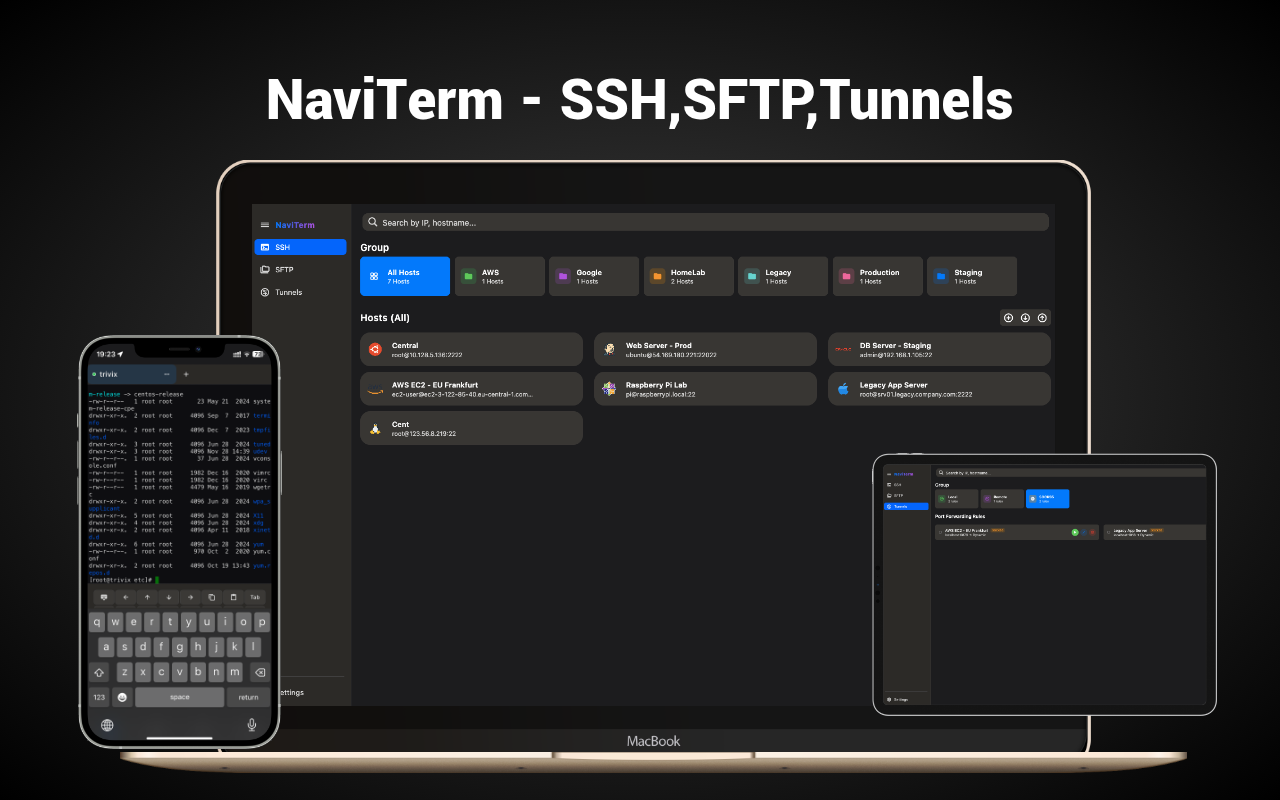
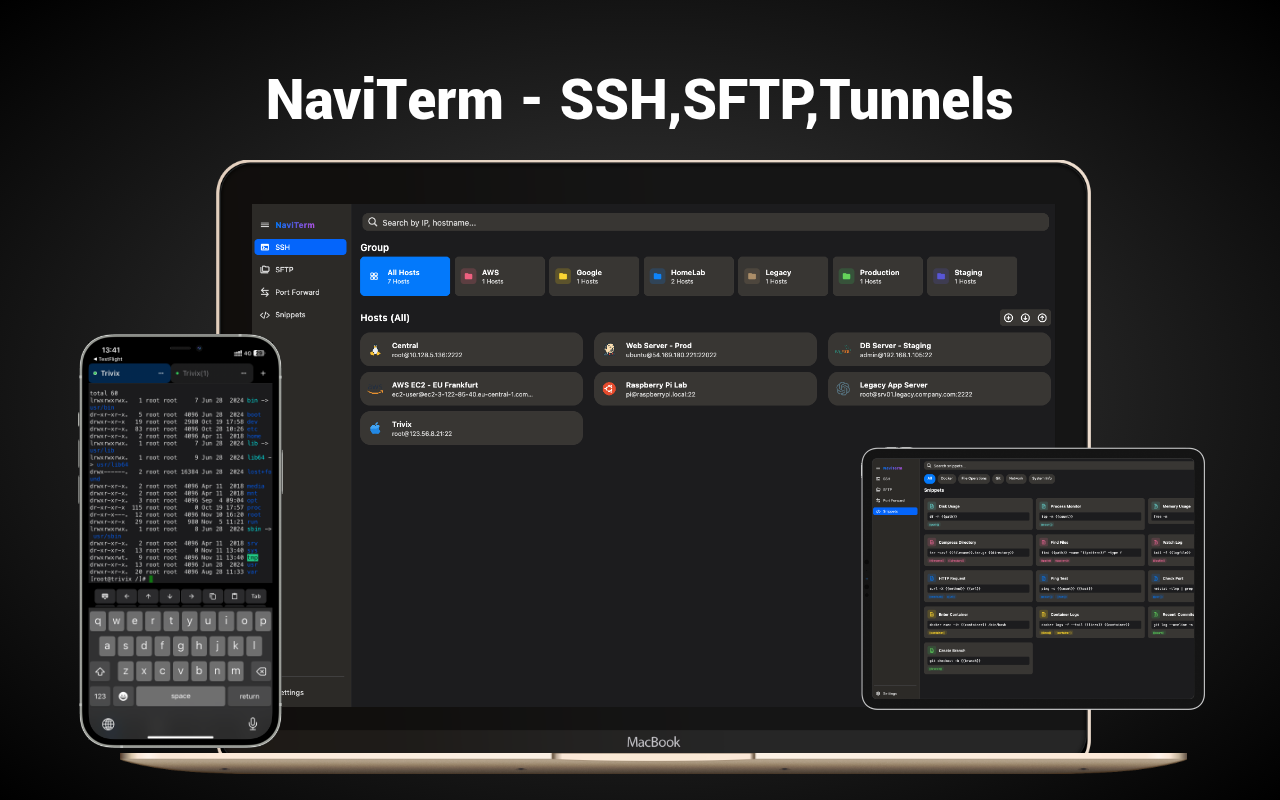
CHANGELOG

diff --git a/CHANGELOG.md b/CHANGELOG.md
@@ -1,5 +1,14 @@
 # Changelog
 
+## [2.5.0]
+
+### New Features
+- Split Screen - Support horizontal/vertical split, operate multiple terminals simultaneously
+- Command Snippets - Save frequently used commands, support iCloud sync
+- Bug fixes and stability improvements
+
+
+
 ## [2.4.0]
 
 ### New Features

diff --git a/CHANGELOG.zh.md b/CHANGELOG.zh.md
@@ -1,5 +1,14 @@
 # 更新日志
 
+## [2.5.0]
+
+### 新功能
+- 分屏功能 - 支持水平/垂直分屏，多终端同时操作
+- 命令片段 - 保存常用命令，支持 iCloud 同步
+- 修复已知问题，提升稳定性
+
+
+
 ## [2.4.0]
 
 ### 新功能

diff --git a/README.md b/README.md
@@ -107,3 +107,7 @@ We occasionally offer free subscription promo codes (1 month or 1 year). If you 
 ![App Screenshot](images/2.png)
 
 ![App Screenshot](images/3.png)
+
+![App Screenshot](images/4.png)
+
+![App Screenshot](images/5.png)

diff --git a/README.zh.md b/README.zh.md
@@ -125,3 +125,7 @@
 ![App Screenshot](images/2.png)
 
 ![App Screenshot](images/3.png)
+
+![App Screenshot](images/4.png)
+
+![App Screenshot](images/5.png)
